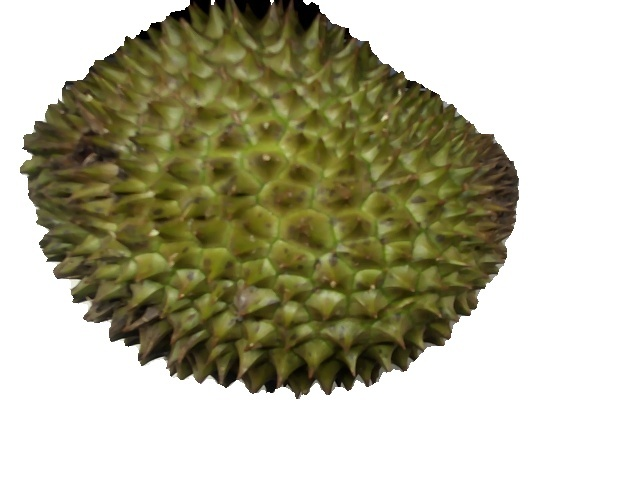
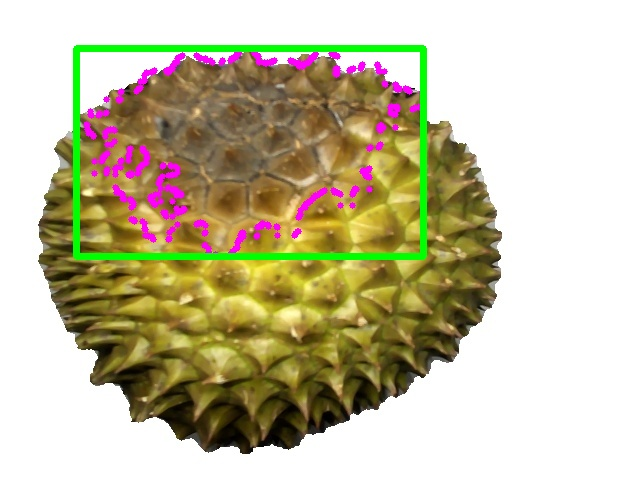
update: report

diff --git a/GetResultSample.py b/GetResultSample.py
@@ -51,7 +51,7 @@ def empty(a):
     pass
 cv2.namedWindow("Tracking")
 cv2.resizeWindow("Tracking",640,240)
-cv2.createTrackbar("LH", "Tracking", 100, 255, empty) #97
+cv2.createTrackbar("LH", "Tracking", 97, 255, empty) #97 
 cv2.createTrackbar("LS", "Tracking", 0, 255, empty)
 cv2.createTrackbar("LV", "Tracking", 0, 255, empty)
 cv2.createTrackbar("UH", "Tracking", 106, 255, empty)
@@ -69,6 +69,7 @@ class DetectObject:
             areaMin = 1000 
 
             if area > areaMin:
+                print("Area durian",area)
                 cv2.drawContours(imgContour_Object, cnt, -1, (255, 0, 255), 7)
                 M = cv2.moments(cnt)
                 cx= int(M["m10"]/M["m00"])
@@ -91,8 +92,8 @@ class DetectObject:
                 result_percent = result_sub/area_elipse
                 result_percent = "{:.3f}".format(result_percent)
                 result_percent = float(result_percent)
-                # print("Area of substraction (pixel): ",result_percent)
-                if (result_percent < 0.2): # 20% 
+                print("Area of elipse (pixel): ",area_elipse)
+                if (result_percent < 0.35): # 20% 
                     # print("Durian meet standards")
                     meetStandard = True
                 else:
@@ -111,16 +112,17 @@ class DetectObject:
         image = cv2.resize(image,(400,300))
         gray = cv2.cvtColor(image, cv2.COLOR_BGR2GRAY)
 
-        # Warming threshold needed apdative
-        thresh, output_otsuthresh = cv2.threshold(gray, 0, 255, cv2.THRESH_BINARY | cv2.THRESH_OTSU)
+        # Warming threshold needed apdative 0: ban dem , 105 : ban ngay
+        thresh, output_otsuthresh = cv2.threshold(gray,0, 255, cv2.THRESH_BINARY | cv2.THRESH_OTSU)
 
         # Erosion image to detect Object Elipse for Durian 
         kernel = np.ones((3,3),np.uint8)
         output_erosion = cv2.erode(output_otsuthresh, kernel,iterations=2)
         output_dilate = cv2.dilate(output_otsuthresh, kernel,iterations=4)
+        opening = cv2.morphologyEx(output_otsuthresh, cv2.MORPH_GRADIENT, kernel)
         boder =  output_dilate - output_erosion 
         # Detect Contour and measure the area durian object 
-        resultObject,img_processed_object = self.ElipseContours(boder,image)
+        resultObject,img_processed_object = self.ElipseContours(opening,image)
         
         flag_object = True
         if not os.path.exists(folder_object):
@@ -147,7 +149,7 @@ class DetectDefect:
             selected_contour = max(contours, key=lambda x: cv2.contourArea(x))
 
             # Config area to detect defect of durian
-            areaMin = 500 
+            areaMin = 2000 
             if area > areaMin:
                 cv2.drawContours(imgContour_Defect, cnt, -1, (255, 0, 255),5)
                 peri = cv2.arcLength(cnt, True)
@@ -191,7 +193,7 @@ class DetectDefect:
         mask_dilate = cv2.dilate(mask_morpho, kernel,iterations=2)
         res = cv2.bitwise_and(image,image, mask=mask_dilate)
 
-        # Detecting contours in image
+        # Detecting contours in image 25: ban ngay , 105 : ban dem
         thresh, output_threshold = cv2.threshold(res,105, 255, 1, cv2.THRESH_BINARY)
         gray_image = cv2.cvtColor(output_threshold, cv2.COLOR_BGR2GRAY)
         bitwise_img = cv2.bitwise_not(gray_image)
@@ -279,7 +281,7 @@ def Classification():
     global data_receive, signal_state
     if signal_state == False:
         Classify_Sensor = PLC.ReadMemory(5,2,S7WLBit)
-    if Classify_Sensor == True:
+    if Classify_Sensor == True and len(list_results) != 0:
         if list_results[0] == "Type_1":
             ser.write(b"R")
             del list_results[0]
@@ -291,7 +293,7 @@ def Classification():
         
 
 def read_from_port(ser):
-    global data_receive, signal_state
+    global data_receive, signal_state, stop_threads
     while True:
         if ser.in_waiting > 0:
             data_receive = ser.read(ser.in_waiting)
@@ -299,6 +301,10 @@ def read_from_port(ser):
             print(data_receive)
             if data_receive == "F" :
                 signal_state = False
+                data_receive = ""
+                
+            if data_receive == "H" :
+                stop_threads = True
                 data_receive = ""
 
 # Create thread to read data from serial
@@ -374,7 +380,7 @@ while True:
                 resultDefect,img_processed_defect = defect.getResultDefect(imgToDetectDefect,folder_defect_result)
                 resultObject,img_processed_object = object.getResultObject(imgToDetectObject,folder_object_result)
                 
-                if resultObject == True and resultDefect == True: ######## temporary config
+                if resultObject == True and resultDefect == False: ######## temporary config
                     print("Meet Standard IMG Processing")
                     MeetStandardIMGProcessing = True
                     print(f"resultObject: {resultObject}, resultDefect: {resultDefect}")
@@ -447,7 +453,11 @@ while True:
                 # time.sleep(5)
             
         moveImage(path_file,folder_dest)
-    #Classification()                                                                                                                                                                                                                                                                                                                                                                                                               
+    Classification()
+    while stop_threads:
+        if (PLC.ReadMemory(5,3,S7WLBit) == True):
+            ser.write(b"S")
+            stop_threads = False                                                                                                                                                                                                                                                                                                                                                                                                               
                 
         
                 

diff --git a/ControlDCMotor.py b/ControlDCMotor.py
@@ -71,11 +71,11 @@ def main():
         # You might want to add a delay to avoid busy-waiting and improve performance
         # time.sleep(0.1)
         # global stop_threads
-        # Sensor =PLC.ReadMemory(5,2,S7WLBit)
-        # if Sensor == True and state_count == False:
-        # # if Sensor == True:
-        #     ser.write(b"R")
-        #     state_count = True
+        Sensor =PLC.ReadMemory(5,2,S7WLBit)
+        if Sensor == True and state_count == False:
+        # if Sensor == True:
+            ser.write(b"R")
+            state_count = True
         while stop_threads:
             if (PLC.ReadMemory(5,3,S7WLBit) == True):
                 ser.write(b"S")
